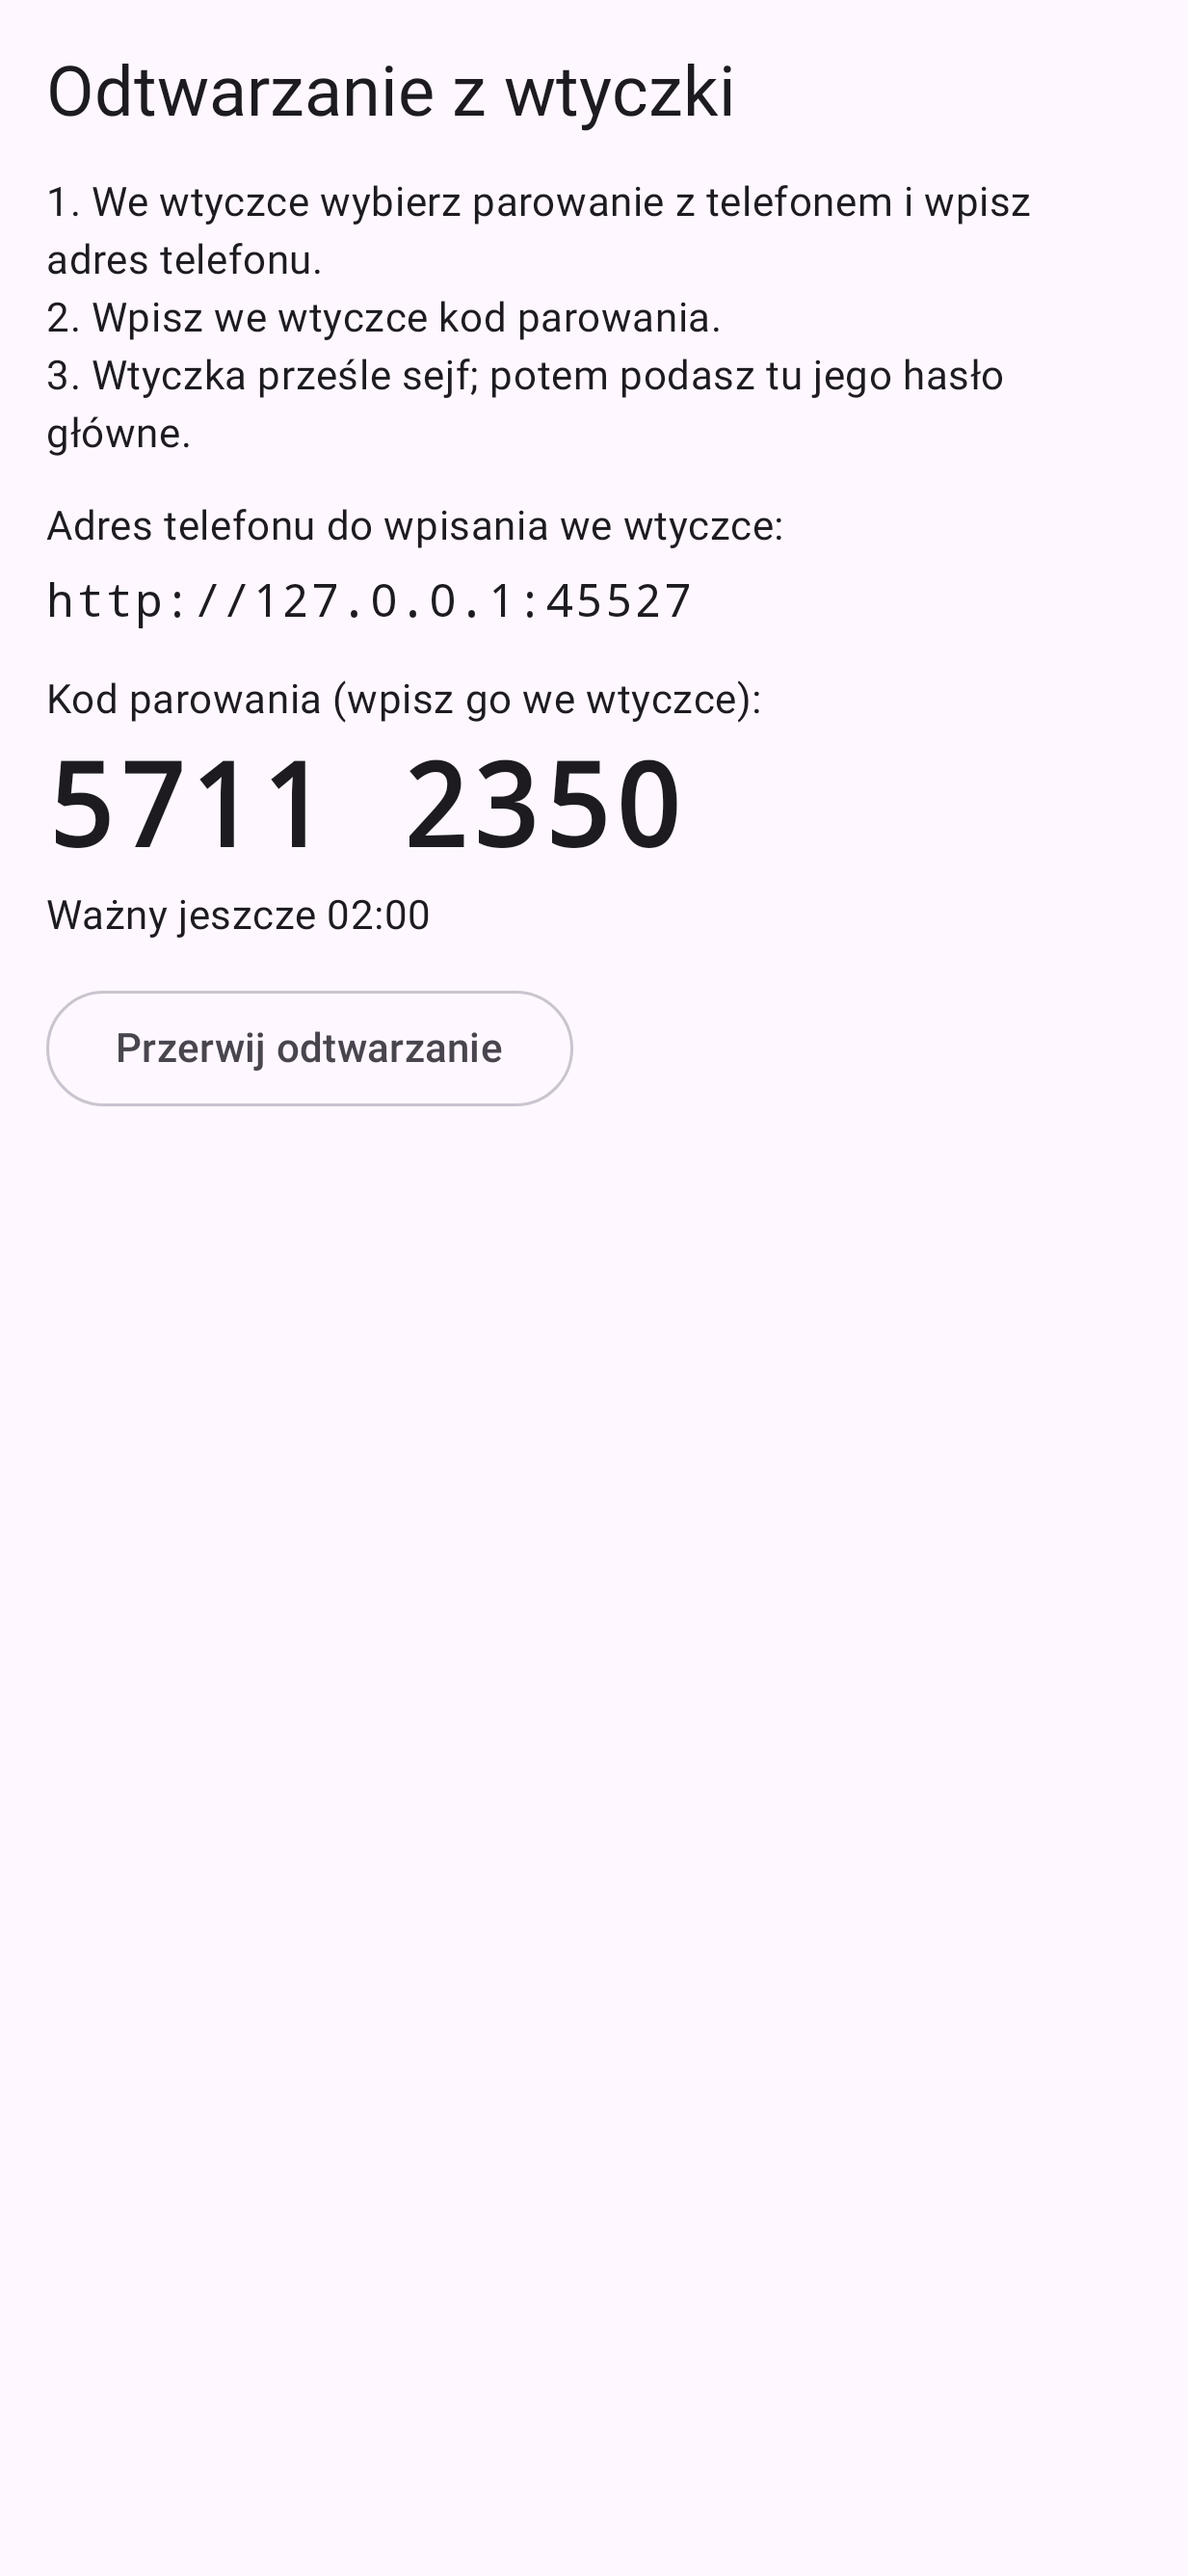
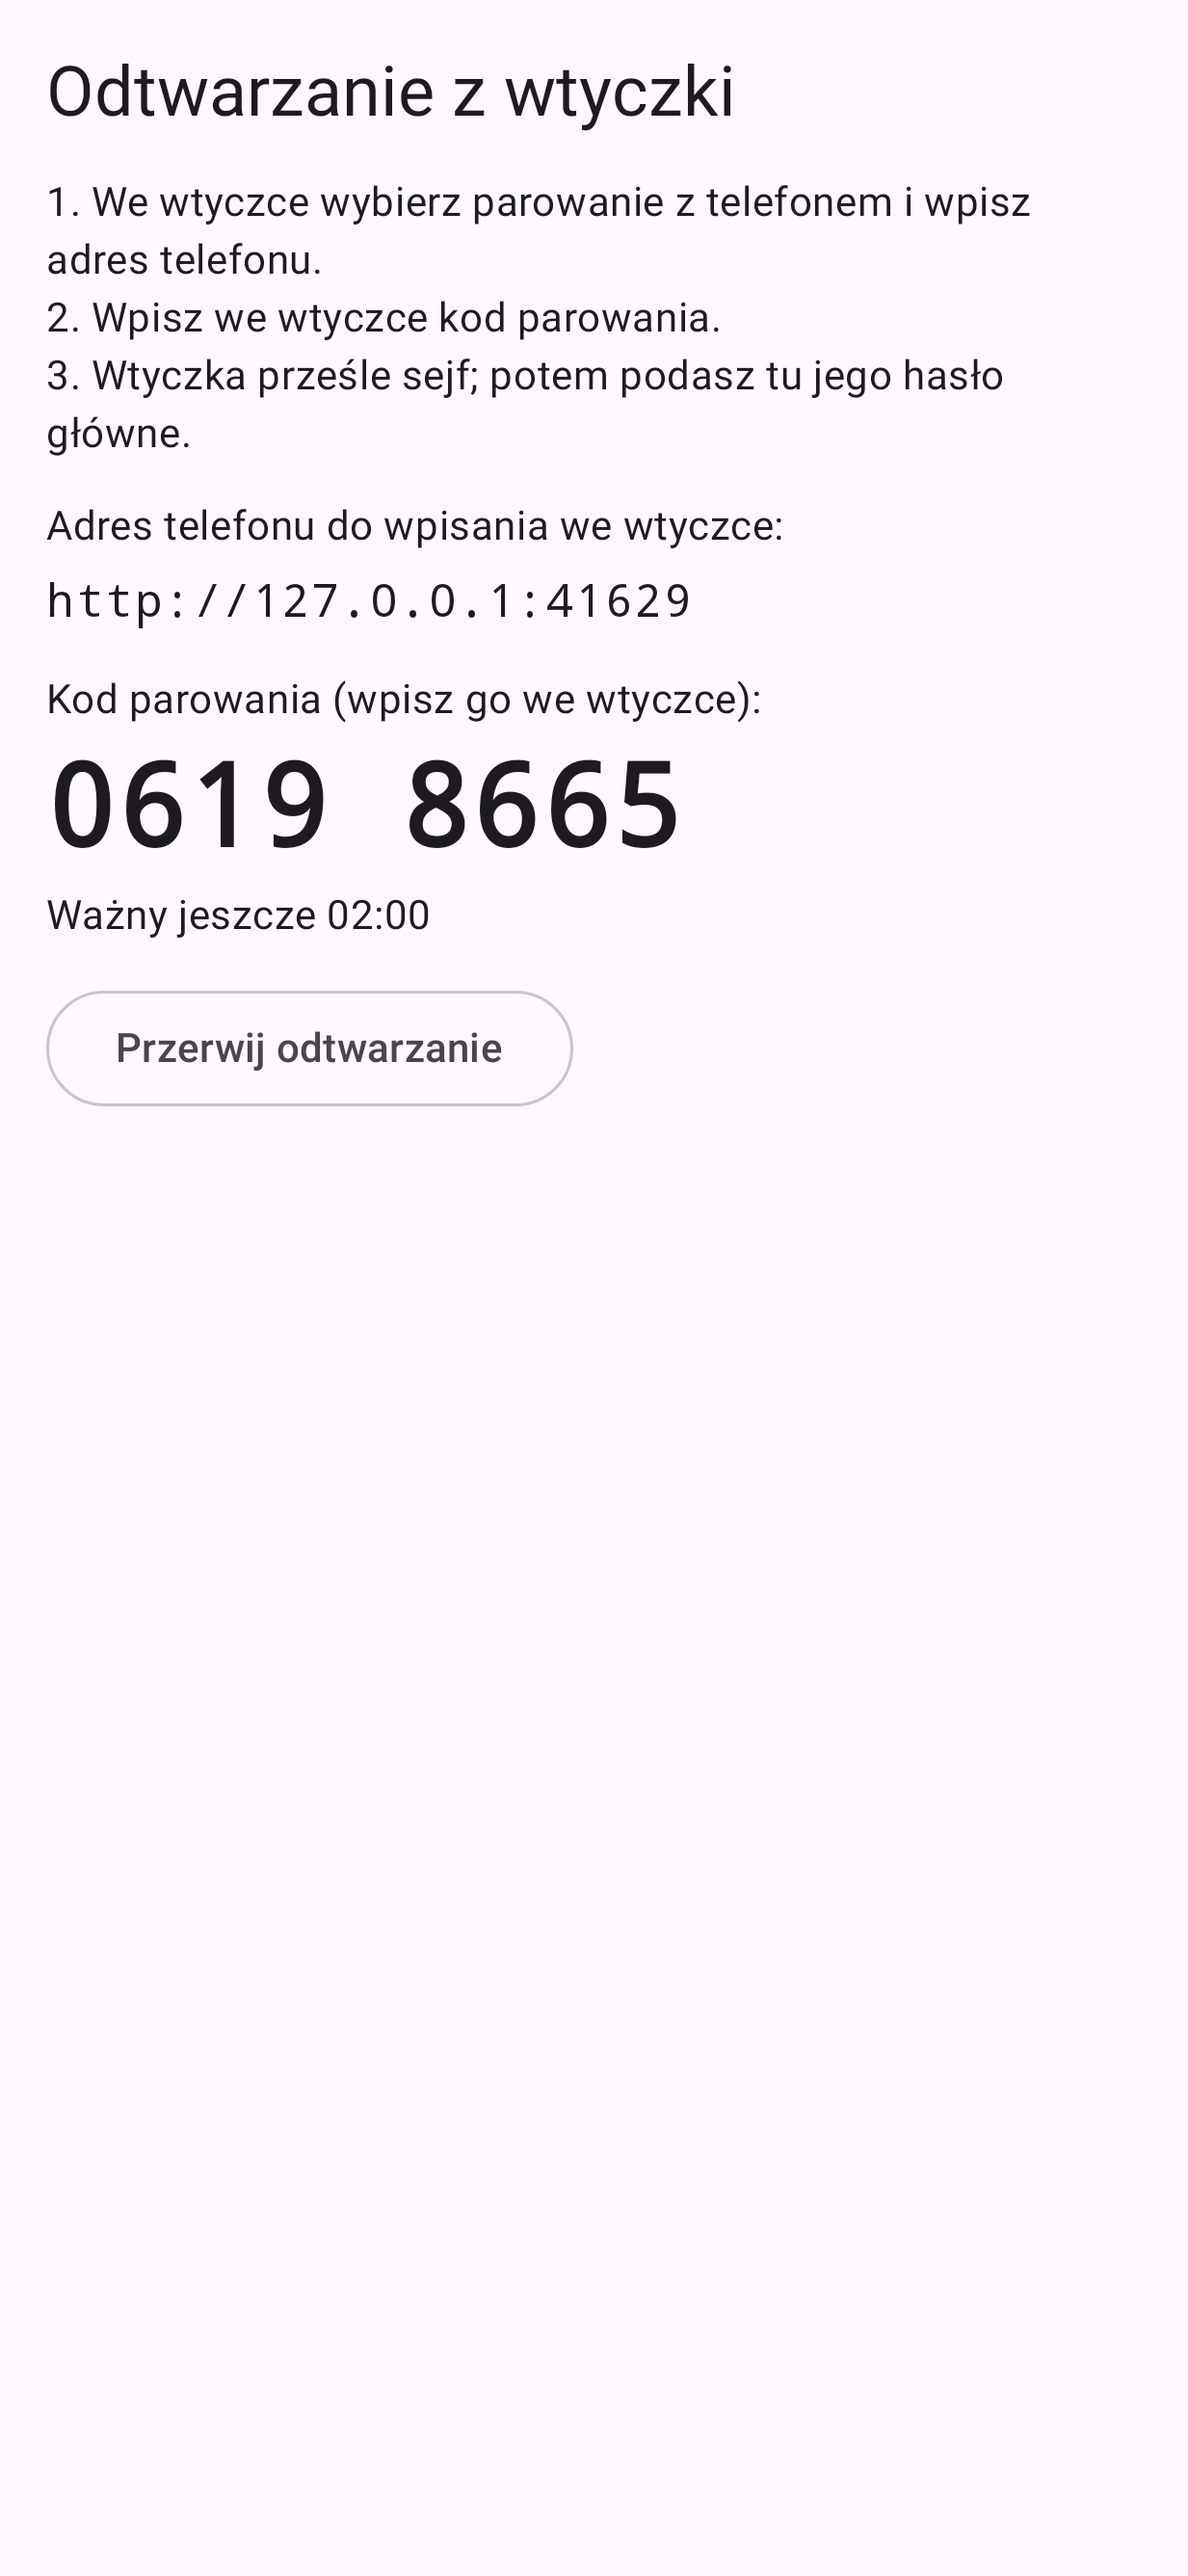
app: sync start/stop race, restore code and restart fixes
Claude-Session: https://claude.ai/code/session_01R4dBa1yTEdRr8SwmFJSu5N

diff --git a/android/app/src/main/kotlin/io/github/sheking94/passholder/app/AppViewModel.kt b/android/app/src/main/kotlin/io/github/sheking94/passholder/app/AppViewModel.kt
@@ -7,6 +7,7 @@ import io.github.sheking94.passholder.core.Credentials
 import io.github.sheking94.passholder.core.GeneratorOptions
 import io.github.sheking94.passholder.core.p2p.PairingOffer
 import io.github.sheking94.passholder.core.p2p.PhoneEntry
+import kotlinx.coroutines.CancellationException
 import kotlinx.coroutines.Dispatchers
 import javax.crypto.Cipher
 import kotlinx.coroutines.delay
@@ -180,14 +181,26 @@ class AppViewModel(application: Application) : AndroidViewModel(application) {
     /** "Przerwij odtwarzanie": forget the restore (and the extensions paired for it) and go back to the start. */
     fun abortRestore() = disconnect()
 
-    /** Restore mode: the server runs from the start, and offers a code until an extension paired. */
-    private fun startRestoreSync() {
+    /**
+     * Restore mode: the server runs from the start and, until an extension paired, a fresh server comes with a
+     * fresh code. A server that was already running (e.g. after a rotation) keeps its code, or its
+     * "Kod wygasł…" hint.
+     */
+    private fun startRestoreSync() = launchSync(offerCodeUntilPaired = true)
+
+    /**
+     * Starts sync mode in the background. The ticket is taken now, on the main thread: a stop that comes before
+     * the start runs (leaving the app, locking, "Zakończ") cancels it.
+     */
+    private fun launchSync(offerCodeUntilPaired: Boolean) {
+        val ticket = sync.startTicket()
         viewModelScope.launch {
             try {
                 withContext(Dispatchers.IO) {
-                    sync.start()
-                    if (store.devices().isEmpty() && sync.state.value.offer == null) sync.offerPairing()
+                    if (sync.start(ticket) && offerCodeUntilPaired && store.devices().isEmpty()) sync.offerPairing()
                 }
+            } catch (e: CancellationException) {
+                throw e
             } catch (e: Exception) {
                 fail(e.message ?: e.javaClass.simpleName)
             }
@@ -301,16 +314,13 @@ class AppViewModel(application: Application) : AndroidViewModel(application) {
         startSync()
     }
 
-    /** Sync mode again after it turned itself off (idle, leaving the app), or after a failed start. */
+    /**
+     * Sync mode again after it turned itself off (idle, leaving the app), or after a failed start ("Włącz
+     * ponownie"). On the restore screen it also brings a new code.
+     */
     fun startSync() {
         _state.update { it.copy(status = null) }
-        viewModelScope.launch {
-            try {
-                withContext(Dispatchers.IO) { sync.start() }
-            } catch (e: Exception) {
-                fail(e.message ?: e.javaClass.simpleName)
-            }
-        }
+        launchSync(offerCodeUntilPaired = _state.value.screen == Screen.Restore)
     }
 
     /** "Zakończ": the server stops, back to the list. */
@@ -324,6 +334,8 @@ class AppViewModel(application: Application) : AndroidViewModel(application) {
         viewModelScope.launch {
             try {
                 withContext(Dispatchers.IO) { sync.offerPairing() }
+            } catch (e: CancellationException) {
+                throw e
             } catch (e: Exception) {
                 fail(e.message ?: e.javaClass.simpleName)
             }
@@ -349,6 +361,8 @@ class AppViewModel(application: Application) : AndroidViewModel(application) {
                 withContext(Dispatchers.IO) { store.removeDevice(id) }
                 sync.refreshDevices()
                 showStatus("Usunięto urządzenie $name.")
+            } catch (e: CancellationException) {
+                throw e
             } catch (e: Exception) {
                 fail(e.message ?: e.javaClass.simpleName)
             }
@@ -392,6 +406,8 @@ class AppViewModel(application: Application) : AndroidViewModel(application) {
         viewModelScope.launch {
             try {
                 withContext(Dispatchers.IO) { action() }
+            } catch (e: CancellationException) {
+                throw e
             } catch (e: Exception) {
                 _state.update { it.copy(status = Status(e.message ?: e.javaClass.simpleName, isError = true)) }
             } finally {

diff --git a/android/app/src/main/kotlin/io/github/sheking94/passholder/app/SyncController.kt b/android/app/src/main/kotlin/io/github/sheking94/passholder/app/SyncController.kt
@@ -48,6 +48,8 @@ class SyncController(
 
     private val lock = Any()
     private var server: SyncHttpServer? = null
+    /** How many times [stop] was called. Guarded by [lock]; see [startTicket]. */
+    private var stops = 0L
     /** The devices as last seen, to tell a new pairing or sync apart. Guarded by [lock]. */
     private var known: Map<String, StoredDevice> = emptyMap()
     @Volatile
@@ -59,12 +61,23 @@ class SyncController(
 
     val running: Boolean get() = synchronized(lock) { server != null }
 
-    /** Starts the server (nothing if it runs). Throws IllegalStateException with a message for the user. */
-    fun start() {
+    /**
+     * Taken when sync mode is asked for (on the main thread), before [start] runs in the background: a [stop]
+     * in between (leaving the app, locking, "Zakończ") makes that [start] do nothing, so no server is left
+     * running behind a screen that already moved on.
+     */
+    fun startTicket(): Long = synchronized(lock) { stops }
+
+    /**
+     * Starts the server, unless it already runs or [stop] was called since [ticket] was taken. Returns true only
+     * when it bound a new server. Throws IllegalStateException with a message for the user.
+     */
+    fun start(ticket: Long = startTicket()): Boolean {
         synchronized(lock) {
-            if (server != null) return
+            if (server != null || ticket != stops) return false
             val router = store.router(onRequest = { lastRequestAt.set(now()) }, addresses = { currentAddresses })
-            val http = SyncHttpServer(port, { path, body -> router.handle(path, body).also { afterRequest() } })
+            lateinit var http: SyncHttpServer
+            http = SyncHttpServer(port, { path, body -> router.handle(path, body).also { afterRequest(http) } })
             val bound = try {
                 http.start()
             } catch (e: BindException) {
@@ -78,6 +91,7 @@ class SyncController(
             val devices = store.devices()
             known = devices.associateBy { it.deviceId }
             _state.value = SyncUiState(running = true, addresses = currentAddresses, devices = devices)
+            return true
         }
     }
 
@@ -85,9 +99,11 @@ class SyncController(
      * Stops the server and drops the pairing code. [reason] is shown on screen; a stop with a reason does
      * nothing when sync mode is already off, so it does not replace an earlier reason.
      */
-    fun stop(reason: String?) {
-        val stopped = synchronized(lock) { server.also { server = null } }
-        if (stopped == null && reason != null) return
+    fun stop(reason: String?) = synchronized(lock) {
+        stops++
+        val stopped = server
+        server = null
+        if (stopped == null && reason != null) return@synchronized
         stopped?.stop()
         store.cancelPairing()
         _state.update {
@@ -132,9 +148,13 @@ class SyncController(
         _state.update { it.copy(devices = devices) }
     }
 
-    /** After every request: a new pairing or a finished sync shows up as [SyncUiState.lastEvent]. */
-    private fun afterRequest() {
-        val (devices, event) = synchronized(lock) {
+    /**
+     * After every request to [http]: a new pairing or a finished sync shows up as [SyncUiState.lastEvent].
+     * Ignored once [http] was stopped (a request still in flight must not touch the state of a later start).
+     */
+    private fun afterRequest(http: SyncHttpServer) {
+        synchronized(lock) {
+            if (server !== http) return
             val devices = store.devices()
             var event: String? = null
             for (d in devices) {
@@ -146,9 +166,8 @@ class SyncController(
                 }
             }
             known = devices.associateBy { it.deviceId }
-            devices to event
+            _state.update { it.copy(devices = devices, lastEvent = event ?: it.lastEvent) }
         }
-        _state.update { it.copy(devices = devices, lastEvent = event ?: it.lastEvent) }
         refreshOffer()
     }
 }

diff --git a/android/app/src/test/kotlin/io/github/sheking94/passholder/app/SyncScreenTests.kt b/android/app/src/test/kotlin/io/github/sheking94/passholder/app/SyncScreenTests.kt
@@ -38,9 +38,9 @@ abstract class SyncScreenTestBase : ScreenTestBase() {
     /** The port the sync server is listening on (the app asks for any free one). */
     @Volatile
     protected var port = -1
-    /** The app's clock (vault store and sync mode), starting at the real time. */
+    /** The app's clock (vault store and sync mode); a fixed start keeps the dates on the screenshots the same. */
     @Volatile
-    protected var clock = System.currentTimeMillis()
+    protected var clock = 1_794_000_000_000L
 
     protected val extKey = NoiseKeys.generate()
     protected val extIdentity = DeviceIdentity("ext-1", "test-ext", Encoding.toBase64(extKey.publicKey))
@@ -250,4 +250,65 @@ class AbortRestoreTest : SyncScreenTestBase() {
         assertFalse(app.phoneStore.restoreInProgress)
         assertNotListening(port)
     }
+}
+
+class StartStopRaceTest : SyncScreenTestBase() {
+    @Test
+    fun `a stop that comes before the background start leaves no server running`() {
+        createVault()
+        val vm = viewModel()
+        // Both on the main thread, before the start on Dispatchers.IO gets to run.
+        scenario.onActivity {
+            vm.openSync()
+            vm.onLeftApp()
+        }
+        scenario.onActivity {
+            vm.openSync()
+            vm.closeSync()
+        }
+        compose.waitForIdle()
+        Thread.sleep(1_000)
+        compose.waitForIdle()
+        assertFalse(vm.syncState.value.running)
+        assertEquals("no server was bound", -1, port)
+        assertFalse(keepsScreenOn())
+    }
+}
+
+class RestoreRestartTest : SyncScreenTestBase() {
+    @Test
+    fun `restore keeps its spent code across a rotation and gets a new one after the idle stop`() {
+        click("Odtwórz z wtyczki")
+        click("Rozpocznij odtwarzanie")
+        waitFor("http://127.0.0.1:", substring = true)
+        val first = shownCode()
+
+        // A rotation (onStart again) keeps the same code.
+        scenario.recreate()
+        assertEquals(first, shownCode())
+
+        // A wrong code spends it; the hint stays after another onStart, no new code comes by itself.
+        assertEquals(403, TestP2pClient.pair(http(), if (first == "00000000") "11111111" else "00000000", extIdentity, kdfLessInfo()).finish?.status)
+        waitFor("Kod wygasł lub został użyty. Weź nowy kod.")
+        scenario.recreate()
+        waitFor("Kod wygasł lub został użyty. Weź nowy kod.")
+        assertTrue(gone("Ważny jeszcze"))
+
+        // The idle stop, then "Włącz ponownie" brings the server back with a fresh code.
+        clock += 300_001
+        viewModel().checkAutoLock()
+        waitFor("Tryb synchronizacji wyłączony po 5 min bez połączeń.")
+        assertNotListening(port)
+        click("Włącz ponownie")
+        waitFor("Ważny jeszcze 02:00", substring = true)
+        shownCode()
+        assertEquals(200, ping())
+    }
+
+    /** Any acceptable vault info: the pairing fails on the wrong code before it is opened. */
+    private fun kdfLessInfo() = VaultInfo(
+        Encoding.toBase64(Encoding.randomBytes(16)),
+        KdfParams("argon2id", Encoding.toBase64(Encoding.randomBytes(16)), Kdf.MIN_MEMORY_KIB, Kdf.MIN_ITERATIONS, Kdf.MIN_PARALLELISM),
+        "AA==", emptyList(),
+    )
 }

diff --git a/android/app/src/test/kotlin/io/github/sheking94/passholder/app/SyncControllerTest.kt b/android/app/src/test/kotlin/io/github/sheking94/passholder/app/SyncControllerTest.kt
@@ -1,0 +1,50 @@
+package io.github.sheking94.passholder.app
+
+import io.github.sheking94.passholder.core.p2p.HttpTestTransport
+import io.github.sheking94.passholder.core.p2p.PhoneVaultStore
+import org.junit.After
+import org.junit.Assert.assertEquals
+import org.junit.Assert.assertFalse
+import org.junit.Assert.assertTrue
+import org.junit.Test
+import java.io.IOException
+import java.nio.file.Files
+
+/** SyncController on the plain JVM: start and stop in any order leave no server behind. */
+class SyncControllerTest {
+    private val dir = Files.createTempDirectory("sync").toFile()
+    private val store = PhoneVaultStore(dir, TestSecretWrapper).apply { startRestore() }
+    private var bound = -1
+    private val controller = SyncController(store, 0, addresses = { bound = it; listOf("http://127.0.0.1:$it") })
+
+    @After
+    fun cleanUp() {
+        controller.stop(null)
+        dir.deleteRecursively()
+    }
+
+    private fun listening(port: Int) = try {
+        HttpTestTransport(port)("/p2p/v1/ping", "{}".toByteArray()).status == 200
+    } catch (_: IOException) {
+        false
+    }
+
+    @Test
+    fun `a stop after the ticket cancels the start, a running server is not started twice`() {
+        val ticket = controller.startTicket()
+        controller.stop(null)
+        assertFalse(controller.start(ticket))
+        assertFalse(controller.running)
+        assertEquals(-1, bound)
+
+        assertTrue(controller.start())
+        assertTrue(listening(bound))
+        val port = bound
+        assertFalse("already running: no new server", controller.start())
+        assertEquals(port, bound)
+
+        controller.stop(SyncController.IDLE_STOPPED)
+        assertFalse(listening(port))
+        assertEquals(SyncController.IDLE_STOPPED, controller.state.value.stoppedReason)
+    }
+}
